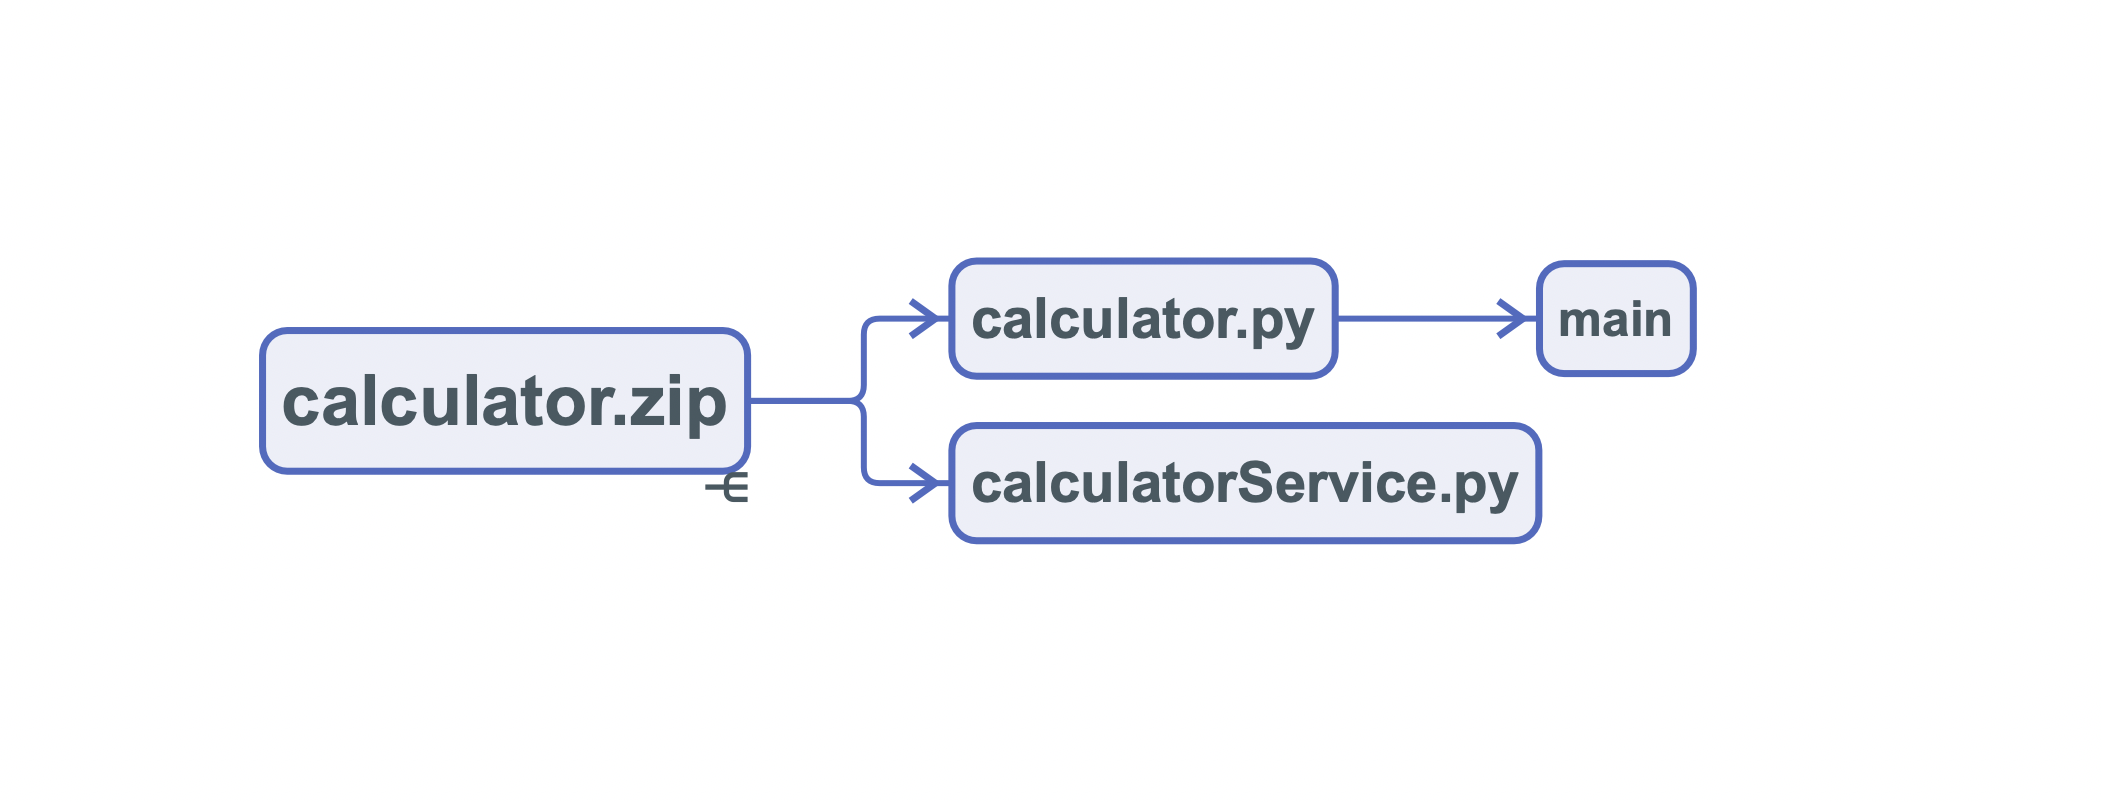
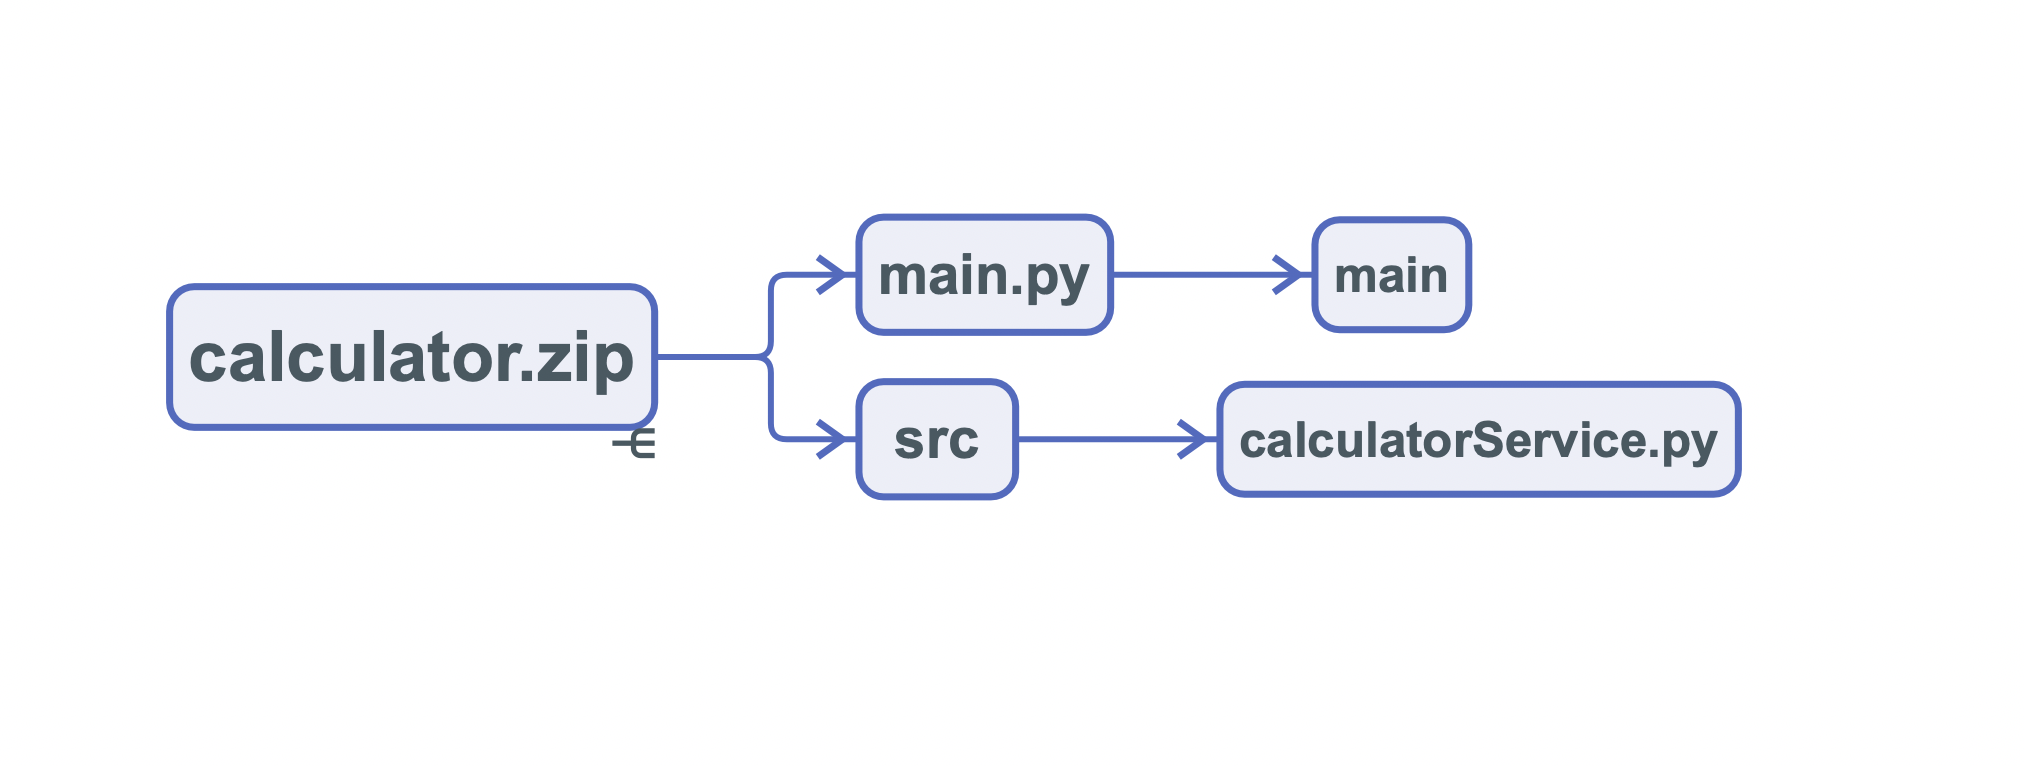
updates

Changed region(s): [[0.0623, 0.2702, 0.8715, 0.6906], [0.6537, 0.2702, 0.7159, 0.3003]]

diff --git a/custom-contract-py/main.py b/custom-contract-py/main.py
@@ -3,12 +3,9 @@
     Dragonchain custom smart contract
 
 """
-import os
-# from calculatorService 
-calculatorService = os.path.abspath(os.path.dirname("calculatorService"))
+# These actions can be taken out and put in a separate file.
 
-
-# Entry point
+from src.calculatorService import calculatorService
 
 
 def main(event, context):
@@ -60,7 +57,7 @@ payload = {
     "payload": {
         "method": "multiplication",
         "parameters": {
-            "numOne": 3,
+            "numOne": 10,
             "numTwo": 3
         }
     }

diff --git a/custom-contract-py/src/calculatorService.py b/custom-contract-py/src/calculatorService.py
@@ -13,5 +13,4 @@ class CalculatorService:
         # The value here will be stored on the blockchain
         return (int(param['numOne']) * int(param['numTwo']))
 
-
 calculatorService = CalculatorService()
